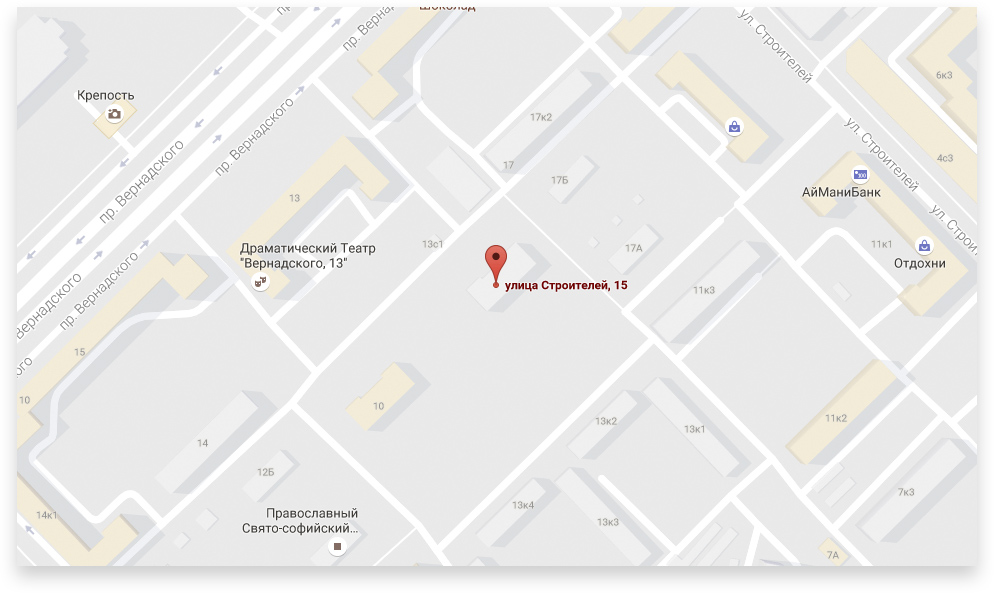
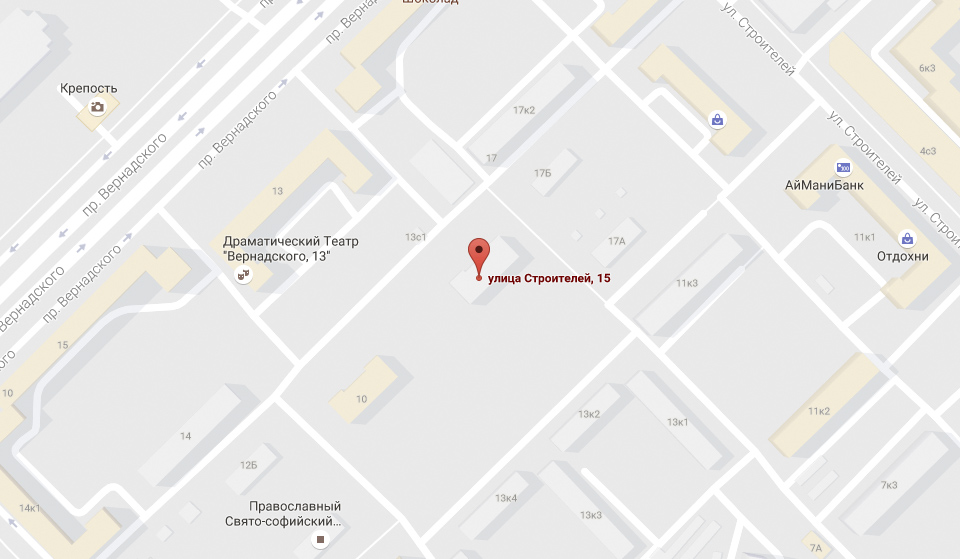
Finish popup windows stylization

diff --git a/css/style.css b/css/style.css
@@ -62,7 +62,7 @@ input[type="radio"].visually-hidden {
   overflow: hidden;
 }
 
-.modal {
+.catalog-page .modal {
   display: none;
 }
 
@@ -486,11 +486,11 @@ input[type="radio"].visually-hidden {
 .page-header input[type="search"]::-webkit-input-placeholder {
   font-family: 'Open Sans', Helvetica, Arial, sans-serif;
   font-weight: 300;
-  color: rgb(0, 0, 0, 0.3);
+  color: rgba(0, 0, 0, 0.3);
 }
 
 .page-header input[type="search"]:hover::-webkit-input-placeholder {
-  color: rgb(0, 0, 0, 0.5);
+  color: rgba(0, 0, 0, 0.5);
 }
 
 .page-header input[type="search"]:focus::-webkit-input-placeholder {
@@ -500,11 +500,11 @@ input[type="radio"].visually-hidden {
 .page-header input[type="search"]::-moz-placeholder {
   font-family: 'Open Sans', Helvetica, Arial, sans-serif;
   font-weight: 300;
-  color: rgb(0, 0, 0, 0.3);
+  color: rgba(0, 0, 0, 0.3);
 }
 
 .page-header input[type="search"]:hover::-moz-placeholder {
-  color: rgb(0, 0, 0, 0.5);
+  color: rgba(0, 0, 0, 0.5);
 }
 
 .page-header input[type="search"]:focus::-moz-placeholder {
@@ -514,11 +514,11 @@ input[type="radio"].visually-hidden {
 .page-header input[type="search"]:-ms-input-placeholder {
   font-family: 'Open Sans', Helvetica, Arial, sans-serif;
   font-weight: 300;
-  color: rgb(0, 0, 0, 0.3);
+  color: rgba(0, 0, 0, 0.3);
 }
 
 .page-header input[type="search"]:hover:-ms-input-placeholder {
-  color: rgb(0, 0, 0, 0.5);
+  color: rgba(0, 0, 0, 0.5);
 }
 
 .page-header input[type="search"]:focus:-ms-input-placeholder {
@@ -528,11 +528,11 @@ input[type="radio"].visually-hidden {
 .page-header input[type="search"]:-moz-placeholder {
   font-family: 'Open Sans', Helvetica, Arial, sans-serif;
   font-weight: 300;
-  color: rgb(0, 0, 0, 0.3);
+  color: rgba(0, 0, 0, 0.3);
 }
 
 .page-header input[type="search"]:hover:-moz-placeholder {
-  color: rgb(0, 0, 0, 0.5);
+  color: rgba(0, 0, 0, 0.5);
 }
 
 .page-header input[type="search"]:focus:-moz-placeholder {
@@ -870,6 +870,7 @@ input[type="radio"].visually-hidden {
   letter-spacing: 0.2em;
   text-transform: uppercase;
   text-align: center;
+  vertical-align: middle;
   color: #000000;
 
   background-image: linear-gradient(to bottom, #ffffff 35%, #f0c52e 35%, #f0c52e 65%, #ffffff 65%);
@@ -1306,3 +1307,191 @@ input[type="radio"].visually-hidden {
 .products-list-item:nth-child(2n) {
   margin-right: 0;
 }
+
+.modal {
+  position: relative;
+
+  margin: 0 auto;
+
+  box-shadow: 0 10px 25px rgba(0, 0, 0, 0.2);
+}
+
+.modal-contact-us {
+  margin: 0 auto;
+  padding: 0 100px;
+  width: 760px;
+  min-height: 555px;
+
+  font-family: 'Gilroy', Helvetica, Arial, sans-serif;
+  font-size: 18px;
+  line-height: 24px;
+  font-weight: 700;
+  letter-spacing: 0.02em;
+  color: #000000;
+}
+
+.contact-us-form {
+  display: flex;
+  flex-direction: column;
+}
+
+.contact-us-form p {
+  margin: 0;
+  padding: 0;
+}
+
+.contact-us-form input[type="text"] {
+  margin-top: 6px;
+  margin-bottom: 35px;
+}
+
+.contact-us-form textarea {
+  margin-top: 6px;
+  margin-bottom: 42px;
+}
+
+.contact-us-upper {
+  display: flex;
+  justify-content: space-between;
+  margin-top: 95px;
+}
+
+.contact-us-upper p {
+  width: 360px;
+}
+
+.modal-contact-us .contact-us-name,
+.modal-contact-us .contact-us-email,
+.modal-contact-us .contact-us-text {
+  box-sizing: border-box;
+  padding: 16px 20px;
+  width: 360px;
+  min-height: 50px;
+
+  font-family: 'Open Sans', Helvetica, Arial, sans-serif;
+  font-weight: 400;
+  font-size: 14px;
+  line-height: 18px;
+  letter-spacing: 0;
+  color: #000000;
+
+  background-color: rgba(242, 242, 242, 0.5);
+  border: none;  
+}
+
+.modal-contact-us .contact-us-name:hover,
+.modal-contact-us .contact-us-email:hover,
+.modal-contact-us .contact-us-text:hover {
+  background-color: #f2f2f2;
+}
+
+.modal-contact-us .contact-us-name:focus,
+.modal-contact-us .contact-us-email:focus,
+.modal-contact-us .contact-us-text:focus {
+  background-color: transparent;
+  outline: #f7e296 solid 3px;
+}
+
+.modal-contact-us .contact-us-text {
+  width: 760px;
+  min-height: 155px;
+
+  font-family: 'Open Sans', Helvetica, Arial, sans-serif;
+  font-weight: 400;
+  font-size: 14px;
+  line-height: 18px;
+  letter-spacing: 0;
+  color: rgba(0, 0, 0, 0.4);
+}
+
+.modal-contact-us .contact-us-text:focus {
+  color: #000000;
+}
+
+.contact-us-button {
+  width: 200px;
+}
+
+.modal-close {
+  content: "";
+
+  position: absolute;
+  top: 24px;
+  right: 22px;
+
+  width: 55px;
+  height: 55px;
+
+  border: none;
+  background-image: url("../img/shared/modal-close.svg");
+  background-color: transparent;
+  opacity: 0.5;
+}
+
+.modal-close:hover,
+.modal-close:focus {
+  opacity: 1;
+}
+
+.modal-close:active {
+  opacity: 0.3;
+}
+
+.modal-map {
+  margin-top: 100px; /* temprorary before add js */
+  width: 960px;
+  height: 559px;
+}
+
+.modal-map img {
+  width: 960px;
+  height: 559px;
+}
+
+/* Modal placeholder settings */
+
+.contact-us-form input[type="text"]::-webkit-input-placeholder {
+  font-family: 'Open Sans', Helvetica, Arial, sans-serif;
+  font-weight: 400;
+  font-size: 14px;
+  line-height: 18px;
+  letter-spacing: 0;
+  color: #464646;
+
+  opacity: 0.4;
+}
+
+.contact-us-form input[type="text"]::-moz-placeholder {
+  font-family: 'Open Sans', Helvetica, Arial, sans-serif;
+  font-weight: 400;
+  font-size: 14px;
+  line-height: 18px;
+  letter-spacing: 0;
+  color: #464646;
+
+  opacity: 0.4;
+}
+
+.contact-us-form input[type="text"]::-ms-input-placeholder {
+  font-family: 'Open Sans', Helvetica, Arial, sans-serif;
+  font-weight: 400;
+  font-size: 14px;
+  line-height: 18px;
+  letter-spacing: 0;
+  color: #464646;
+
+  opacity: 0.4;
+}
+
+.contact-us-form input[type="text"]:-moz-placeholder {
+  font-family: 'Open Sans', Helvetica, Arial, sans-serif;
+  font-weight: 400;
+  font-size: 14px;
+  line-height: 18px;
+  letter-spacing: 0;
+  color: #464646;
+
+  opacity: 0.4;
+}
+
+/* End of modal placeholder settings */

diff --git a/index.html b/index.html
@@ -237,50 +237,51 @@
     <section class="modal modal-contact-us">
       <h2 class="visually-hidden">Форма Аутентификации</h2>
       <form class="contact-us-form" method="post" action="https://barbershop.ru/contact_us.html">
-        <p>
-          <label for="contact-us-name">Ваше имя:</label>
-          <input class="contact-us-name"
-                 type="text"
-                 name="modal-name"
-                 id="contact-us-name"
-                 placeholder="Имя Фамилия">
-        </p>
+        <div class="contact-us-upper">
+          <p>
+            <label for="contact-us-name">Ваше имя:</label>
+            <input class="contact-us-name contact-us-input-element"
+                   type="text"
+                   name="modal-name"
+                   id="contact-us-name"
+                   placeholder="Имя Фамилия" invalid>
+          </p>
 
-        <p>
-          <label for="contact-us-email">Ваш e-mail:</label>
-          <input class="contact-us-email"
-                 type="text"
-                 name="modal-email"
-                 id="contact-us-email"
-                 placeholder="email@example.come">
-        </p>
+          <p>
+            <label for="contact-us-email">Ваш e-mail:</label>
+            <input class="contact-us-email contact-us-input-element"
+                   type="text"
+                   name="modal-email"
+                   id="contact-us-email"
+                   placeholder="email@example.com">
+          </p>
+        </div>
 
         <p>
           <label for="contact-us-text">Текст письма:</label>
-          <textarea class="contact-us-text"
+          <textarea class="contact-us-text contact-us-input-element"
                     name="modal-text"
                     id="contact-us-text"
                     rows="5"
-                    cols="80">
-            В свободной форме
+                    cols="80">В свободной форме
           </textarea>
         </p>
 
-        <button class="button" type="submit">Отправить</button>
+        <button class="button contact-us-button" type="submit">Отправить</button>
       </form>
-      <button class="modal-close" type="button">Закрыть форму аутентификации</button>
+      <button class="modal-close" type="button"><span class="visually-hidden">Закрыть форму аутентификации</span></button>
     </section>
 
     <section class="modal modal-map">
       <h2 class="visually-hidden">Как до нас добраться</h2>
       <a class="modal-map-widget" href="https://www.google.com/maps">
         <img src="img/shared/popup-map.jpg"
-             width="994"
-             height="593"
+             width="960"
+             height="559"
              alt="Офис компании по адресу ул. Строителей 15,
                   Москва">
       </a>
-      <button class="modal-close" type="button">Закрыть карту</button>
+      <button class="modal-close" type="button"><span class="visually-hidden">Закрыть карту</span></button>
     </section>
   </body>
 </html>
